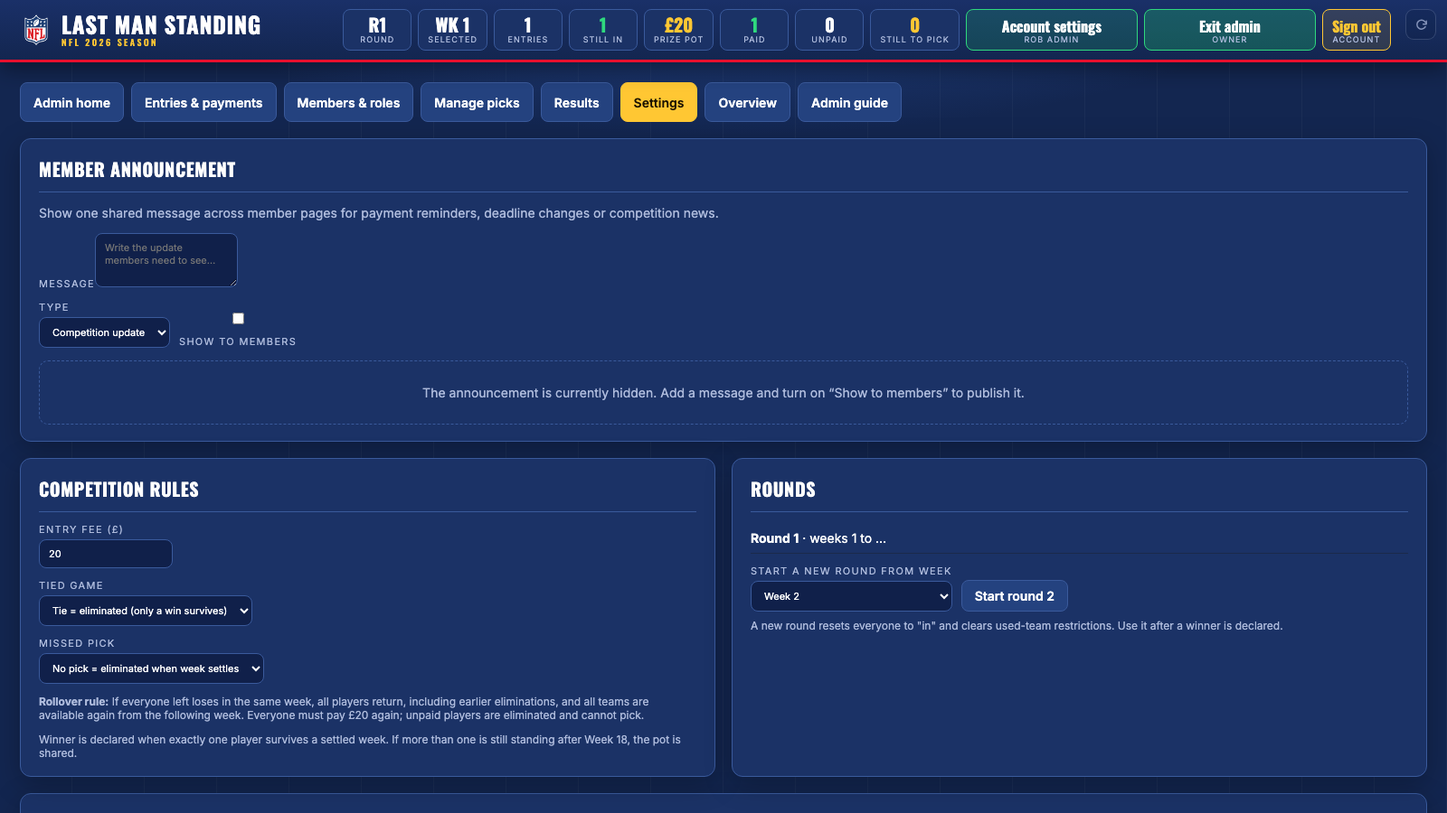
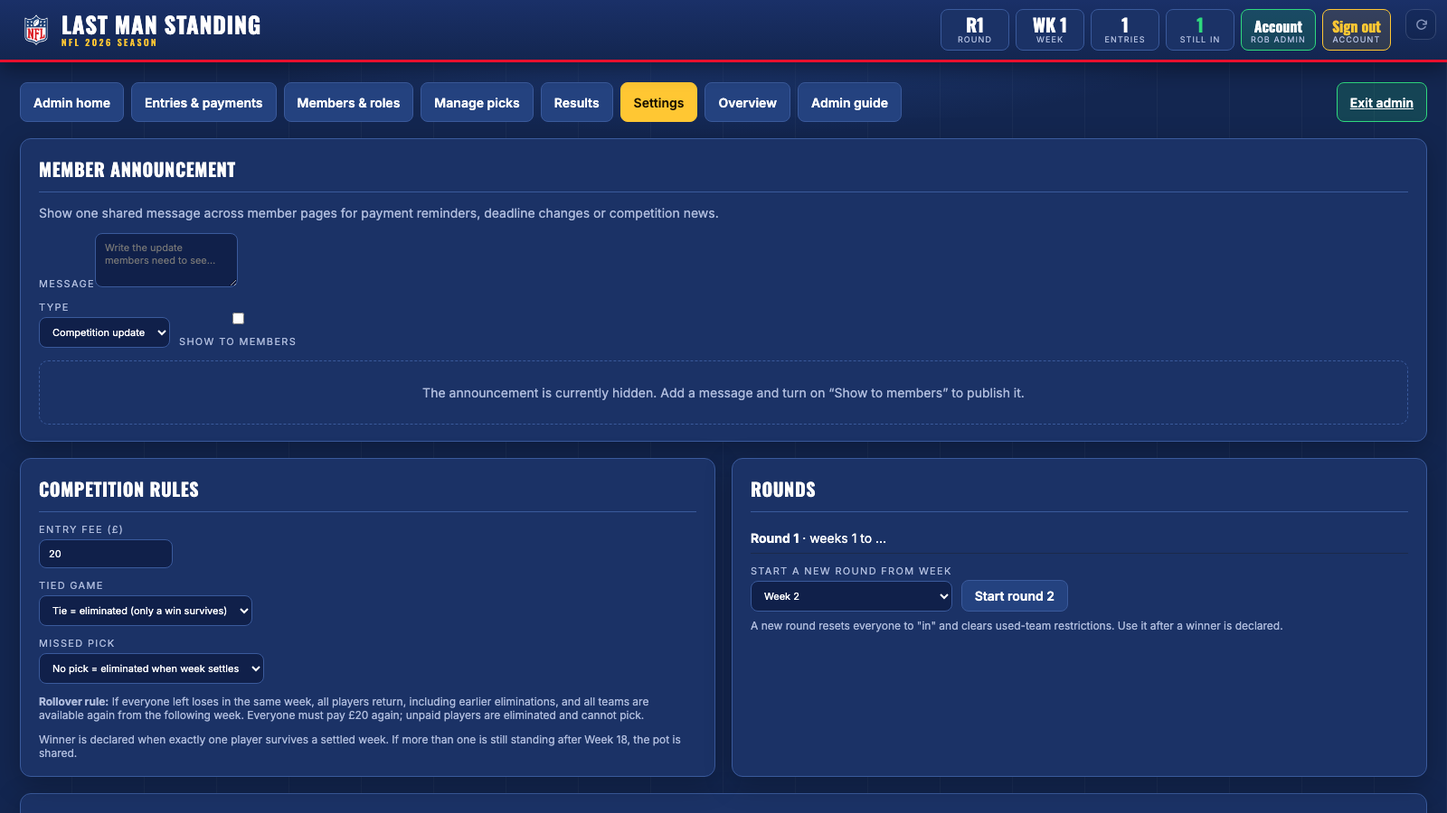
Simplify competition header

Changed region(s): [[0.5625, 0.0, 0.9062, 0.0622], [0.25, 0.0, 0.5312, 0.0622], [0.9062, 0.0933, 1.0, 0.1556]]

diff --git a/index.html b/index.html
@@ -259,8 +259,7 @@ body.player .season{display:flex;flex-wrap:wrap;gap:10px}
 @media(max-width:900px){
   body .hdr-top{padding:12px 16px;display:block}
   body .brand h1,body.player .brand h1{font-size:24px}
-  body .hdr-stats{display:grid;grid-template-columns:repeat(7,minmax(0,1fr));margin:12px 0 0;gap:6px}
-  body.player .hdr-stats{grid-template-columns:repeat(6,minmax(0,1fr))}
+  body .hdr-stats,body.player .hdr-stats{display:grid;grid-template-columns:repeat(6,minmax(0,1fr));margin:12px 0 0;gap:6px}
   body .stat,body.player .stat{min-width:0;padding:6px 4px}
   nav{padding:0 12px}
   nav button{padding:12px 14px;font-size:13px;min-height:44px}
@@ -276,7 +275,7 @@ body.player .season{display:flex;flex-wrap:wrap;gap:10px}
   body .brand h1,body.player .brand h1{font-size:22px}
   .brand h1 small{font-size:9px;letter-spacing:.2em}
   .brand .nfl-logo{width:30px;height:36px}
-  body .hdr-stats,body.player .hdr-stats{grid-template-columns:repeat(4,minmax(0,1fr));margin-top:10px}
+  body .hdr-stats,body.player .hdr-stats{grid-template-columns:repeat(3,minmax(0,1fr));margin-top:10px}
   .stat .v{font-size:18px}
   .stat .l{font-size:8px;letter-spacing:.08em}
   nav{position:fixed;z-index:100;left:0;right:0;bottom:0;display:grid;grid-template-columns:repeat(4,minmax(0,1fr));gap:4px;padding:6px 8px calc(6px + env(safe-area-inset-bottom));background:rgba(8,18,43,.97);border-top:1px solid var(--line);border-bottom:0;box-shadow:0 -8px 28px rgba(0,0,0,.45);overflow:visible}
@@ -347,7 +346,7 @@ html{-webkit-text-size-adjust:100%;text-size-adjust:100%}
 .account-identity{display:grid;grid-template-columns:minmax(0,1fr) auto;align-items:center;gap:18px}.account-identity h1{font-family:var(--font-head);font-size:clamp(30px,5vw,48px);line-height:1;margin:7px 0}.account-actions{display:flex;flex-wrap:wrap;justify-content:flex-end;gap:8px}.account-entry-switch{grid-column:1/-1;border-top:1px solid var(--line);padding-top:14px}.account-entry-tabs{display:flex;flex-wrap:wrap;gap:8px;margin-top:8px}.account-summary{margin-bottom:18px}.account-status{font-family:var(--font-head);font-size:clamp(28px,5vw,42px);margin:12px 0 6px}.account-status.active{color:var(--green)}.account-status.inactive{color:var(--gold)}.account-current-pick{display:flex;align-items:center;gap:14px;margin-top:12px}.account-current-pick strong{display:block;font-size:18px}.account-current-pick span{display:block;color:var(--grey);font-size:12px;margin-top:5px}.account-history{display:grid;gap:7px}.account-history-row{display:grid;grid-template-columns:70px minmax(0,1fr) auto;align-items:center;gap:12px;padding:10px 12px;background:var(--deep);border:1px solid var(--line);border-radius:9px}.account-week{color:var(--grey);font-size:12px;font-weight:700}.account-team-grid{display:grid;grid-template-columns:repeat(auto-fill,minmax(145px,1fr));gap:7px}.account-team-card{display:flex;align-items:center;gap:9px;min-width:0;padding:9px 10px;background:var(--deep);border:1px solid var(--line);border-radius:9px}.account-team-card .logo{flex:none}.account-team-card div{min-width:0}.account-team-card b,.account-team-card span{display:block;white-space:nowrap;overflow:hidden;text-overflow:ellipsis}.account-team-card span{color:var(--grey);font-size:10px;margin-top:3px}@media(max-width:650px){.account-identity{grid-template-columns:1fr}.account-actions{justify-content:flex-start}.account-history-row{grid-template-columns:58px minmax(0,1fr)}.account-history-row>.pill{grid-column:2}.account-team-grid{grid-template-columns:repeat(2,minmax(0,1fr))}.account-team-card{padding:8px}.account-team-card .logo.lg{width:32px;height:32px}}
 .member-name-editor{display:grid;grid-template-columns:minmax(110px,1fr) minmax(140px,1fr) auto;gap:6px;min-width:390px}.name-required{color:#ff9aa8;font-weight:700;margin-top:5px}@media(max-width:650px){.member-name-editor{min-width:320px}}
 .brand{width:max-content;max-width:calc(100% - 42px);text-decoration:none;color:inherit;border-radius:7px}.brand:hover h1{color:#fff}.brand:focus-visible{outline:2px solid var(--gold);outline-offset:5px}.hdr-top{position:relative;padding-right:62px}.refresh-app{position:absolute;z-index:21;right:12px;top:10px;display:flex;align-items:center;justify-content:center;width:34px;height:34px;padding:7px;border:1px solid rgba(166,181,214,.32);border-radius:9px;background:rgba(8,24,58,.28);color:var(--grey);opacity:.72;cursor:pointer}.refresh-app:hover,.refresh-app:focus-visible{opacity:1;color:#fff;border-color:var(--line);background:rgba(36,66,127,.75)}.refresh-app svg{width:17px;height:17px;fill:none;stroke:currentColor;stroke-width:2.1;stroke-linecap:round;stroke-linejoin:round}.refresh-app.refreshing svg{animation:refresh-spin .8s linear infinite}@keyframes refresh-spin{to{transform:rotate(360deg)}}@media(max-width:900px){body .hdr-top{padding-right:54px}}@media(max-width:600px){.refresh-app{right:9px;top:9px;width:32px;height:32px;padding:7px;opacity:.62}}
-.stat.account-access{min-width:190px;background:rgba(31,191,106,.2);border-color:var(--green);color:inherit;text-decoration:none}.stat.account-access .v{color:#fff;font-size:16px;padding-top:4px}.stat.admin-access{background:rgba(31,191,106,.3)}.stat.signout-access{color:inherit;font:inherit}.participation-summary{display:grid;grid-template-columns:repeat(6,minmax(92px,1fr));gap:9px;margin:16px 0}.participation-summary>div{padding:12px;border:1px solid var(--line);border-radius:10px;background:var(--deep);text-align:center}.participation-summary b{display:block;font:700 30px/1 var(--font-head);color:#fff}.participation-summary span{display:block;margin-top:5px;color:var(--grey);font-size:10px;text-transform:uppercase;letter-spacing:.12em}.participation-summary .paid b{color:var(--green)}.participation-summary .unpaid b,.participation-summary .topick b{color:var(--gold)}@media(max-width:900px){.participation-summary{grid-template-columns:repeat(3,minmax(0,1fr))}.stat.account-access{min-width:0;grid-column:span 2}}@media(max-width:520px){.participation-summary{grid-template-columns:repeat(2,minmax(0,1fr))}.stat.account-access .v{font-size:13px}}
+.stat.account-access{min-width:76px;background:rgba(31,191,106,.2);border-color:var(--green);color:inherit;text-decoration:none}.stat.account-access .v{color:#fff;font-size:16px;padding-top:4px}.stat.signout-access{color:inherit;font:inherit}.participation-summary{display:grid;grid-template-columns:repeat(6,minmax(92px,1fr));gap:9px;margin:16px 0}.participation-summary>div{padding:12px;border:1px solid var(--line);border-radius:10px;background:var(--deep);text-align:center}.participation-summary b{display:block;font:700 30px/1 var(--font-head);color:#fff}.participation-summary span{display:block;margin-top:5px;color:var(--grey);font-size:10px;text-transform:uppercase;letter-spacing:.12em}.participation-summary .paid b{color:var(--green)}.participation-summary .unpaid b,.participation-summary .topick b{color:var(--gold)}.admin-nav .admin-exit{margin-left:auto;background:rgba(31,191,106,.2);border-color:var(--green)}@media(max-width:900px){.participation-summary{grid-template-columns:repeat(3,minmax(0,1fr))}.stat.account-access{min-width:0}}@media(max-width:520px){.participation-summary{grid-template-columns:repeat(2,minmax(0,1fr))}.stat.account-access .v{font-size:13px}.admin-nav .admin-exit{margin-left:0}}
 </style>
 </head>
 <body>
@@ -763,17 +762,12 @@ function render(){
   if(S.ui.view==='entries') wireDrop();
 }
 function renderHeader(r,comp){
-  const pot=prizePot(r,comp),entries=roundEntries(r);
-  const paid=entries.filter(e=>entryPaid(e,r,comp)).length,missing=missingEntries(S.ui.week||defaultWeek(),r,comp).length;
+  const entries=roundEntries(r);
   document.getElementById('hdrStats').innerHTML=`
     <div class="stat"><div class="v">R${r.n}</div><div class="l">Round</div></div>
-    <div class="stat"><div class="v">WK ${S.ui.week||defaultWeek()}</div><div class="l">Selected</div></div>
+    <div class="stat"><div class="v">WK ${S.ui.week||defaultWeek()}</div><div class="l">Week</div></div>
     <div class="stat"><div class="v">${entries.length}</div><div class="l">Entries</div></div>
     <div class="stat alive"><div class="v">${comp.alive.size}</div><div class="l">Still In</div></div>
-    <div class="stat pot"><div class="v">${gbp(pot)}</div><div class="l">Prize Pot</div></div>
-    <div class="stat alive"><div class="v">${paid}</div><div class="l">Paid</div></div>
-    <div class="stat"><div class="v">${entries.length-paid}</div><div class="l">Unpaid</div></div>
-    <div class="stat pot"><div class="v">${missing}</div><div class="l">Still to pick</div></div>
     ${REMOTE?remoteHeader():SHARED?(ADMIN?`<div class="stat pub ${isDirty()?'dirty':''}" onclick="${HOSTED?'publishLive()':'exportLivePage()'}" title="${HOSTED?'Publish the current state so everyone with the link sees it':'Download an updated index.html to upload to your web host'}"><div class="v">${HOSTED?(isDirty()?'⬆ Publish':'✓ Live'):'⬇ Download'}</div><div class="l">${isDirty()?'unpublished changes':'up to date'}</div></div><div class="stat pub" style="border-color:var(--line);background:transparent" onclick="toggleAdmin()"><div class="v" style="color:#fff">Admin</div><div class="l">exit</div></div>`:`<div class="stat pub" style="border-color:var(--line);background:transparent;opacity:.6" onclick="toggleAdmin()" title="Organiser only"><div class="v" style="color:#fff">🔒</div><div class="l">organiser</div></div>`):''}`;
 }
 
@@ -795,6 +789,7 @@ function renderFixturesCard(w){
 function renderHome(r,comp){
   const pot=prizePot(r,comp),entries=roundEntries(r);
   const w=defaultWeek();
+  const paid=entries.filter(e=>entryPaid(e,r,comp)).length,missing=missingEntries(w,r,comp).length;
   const first=GAMES.slice().sort((a,b)=>a.date.localeCompare(b.date))[0];
   const wkCur=gamesByWeek(w);
   const last=GAMES.slice().sort((a,b)=>b.date.localeCompare(a.date))[0];
@@ -805,15 +800,16 @@ function renderHome(r,comp){
     <h1 class="big">Last Man <span>Standing</span></h1>
     <p>Pick One team per week. Win to stay in, losers go out. Last man standing take the pot.</p>
     <div class="herostats">
-      <div class="herostat gold"><div class="v">${gbp(S.settings.fee)}</div><div class="l">Per entry</div></div>
       <div class="herostat gold"><div class="v">${gbp(pot)}</div><div class="l">Current pot</div></div>
-      <div class="herostat green"><div class="v">${comp.alive.size}</div><div class="l">Still standing</div></div>
-      <div class="herostat"><div class="v">Wk ${w}</div><div class="l">${weekSettled(w)?'Settled':weekHasResults(w)?'In progress':'Up next'}</div></div>
+      <div class="herostat green"><div class="v">${paid}</div><div class="l">Paid</div></div>
+      <div class="herostat gold"><div class="v">${entries.length-paid}</div><div class="l">Unpaid</div></div>
+      <div class="herostat"><div class="v">${missing}</div><div class="l">Still to pick</div></div>
     </div>
     <div class="hero-actions">
       <button class="btn gold" onclick="setView('standings')">View standings</button>
       <button class="btn" onclick="setView('picks')">Picks and history</button>
       <button class="btn primary" onclick="${accountUser?`setWeek(${w});setView('picks')`:`location.href='/signup'`}">${accountUser?`Enter Week ${w} picks`:'Register or sign in'}</button>
+      ${accountUser&&['owner','admin'].includes(accountUser.role)?'<a class="btn" style="border-color:var(--green);background:rgba(31,191,106,.2)" href="/admin">Admin area</a>':''}
       <a class="btn" href="/help">How to guide</a>
     </div>
   </div>
@@ -1502,7 +1498,7 @@ let accountUser=null,accountEntries=[],accountParticipation='not_entered',accoun
 const accountCall=(action,body)=>apiRequest('/api/account?action='+action,body);
 function accountBar(){if(location.protocol==='file:')return '';if(accountPage==='/admin')return adminNavigation();return ['/login','/signup','/reset-password'].includes(accountPage)?'<div class="row account-bar"><a class="btn" href="/">Dashboard</a></div>':'';}
 const adminSections=[['adminhome','Admin home'],['entries','Entries & payments'],['members','Members & roles'],['picks','Manage picks'],['results','Results'],['settings','Settings'],['dash','Overview'],['adminhelp','Admin guide']];
-function adminNavigation(){return accountPage==='/admin'&&ADMIN?`<div class="admin-nav" role="navigation" aria-label="Admin tools">${adminSections.map(([view,label])=>`<button class="btn ${S.ui.view===view?'gold':''}" aria-current="${S.ui.view===view?'page':'false'}" onclick="setView('${view}')">${view==='members'&&accountUser?.role!=='owner'?'Members':label}</button>`).join('')}</div>`:'';}
+function adminNavigation(){return accountPage==='/admin'&&ADMIN?`<div class="admin-nav" role="navigation" aria-label="Admin tools">${adminSections.map(([view,label])=>`<button class="btn ${S.ui.view===view?'gold':''}" aria-current="${S.ui.view===view?'page':'false'}" onclick="setView('${view}')">${view==='members'&&accountUser?.role!=='owner'?'Members':label}</button>`).join('')}<a class="btn admin-exit" href="/dashboard">Exit admin</a></div>`:'';}
 function renderAdminHome(r,comp){
  const entries=roundEntries(r),paid=entries.filter(e=>entryPaid(e,r,comp)).length,missing=missingEntries(defaultWeek(),r,comp).length,summary=accountSummary||{members:0,participating:0,entries:entries.length,paid,unpaid:entries.length-paid};
  const tools=[['entries','Entries & payments',accountUser?.role==='owner'?'Mark payments, add people manually and use the owner-only spreadsheet importer.':'Mark payments and add individual entries. New members should register and set their own password.'],['members',accountUser?.role==='owner'?'Members & roles':'Members',accountUser?.role==='owner'?'Correct names, assign admins, manage access, link entries and reset passwords.':'Correct member names and reset member passwords.'],['picks','Manage picks','Add, replace or clear picks for any entry, including your own and deadline overrides.'],['results','Results','Fetch scores, enter results and settle the week.'],['settings','Competition settings','Manage rounds, rules, entry fees and backups.'],['dash','Competition overview','Check the prize pot, standings, missing picks and fixtures.'],['adminhelp','Admin how-to guide','Search the complete guide to payments, accounts, picks, results, rollovers and settings.']];
@@ -1512,9 +1508,9 @@ function participationSummary(summary,missing){return `<div class="participation
 
 function deadlineBanner(w){const d=L.weekDeadline(w);return `<div class="card deadline"><b>Week ${w} pick deadline: ${d?new Date(d).toLocaleString('en-GB',{weekday:'long',day:'numeric',month:'short',hour:'2-digit',minute:'2-digit',timeZone:'Europe/London'}):'Awaiting fixtures'} (UK time)</b><div class="small muted">All picks and changes close one hour before the first kick-off.${d&&d<=serverNow()?' This week is now locked.':''}</div></div>`;}
 function remoteHeader(){
- if(!accountUser)return '<a class="stat pub" style="color:inherit;font:inherit;text-decoration:none" href="/signup"><div class="v" style="font-size:18px">Register</div><div class="l">or sign in</div></a>';
- const staff=['owner','admin'].includes(accountUser.role),inAdmin=accountPage==='/admin',inAccount=accountPage==='/account';
- return `<a class="stat pub account-access" href="${inAccount?'/dashboard':'/account'}"><div class="v">${inAccount?'Exit account settings':'Account settings'}</div><div class="l">${esc(accountUser.name)}</div></a>${staff?`<a class="stat pub account-access admin-access" href="${inAdmin?'/dashboard':'/admin'}"><div class="v">${inAdmin?'Exit admin':'Admin area'}</div><div class="l">${accountUser.role}</div></a>`:''}<button type="button" class="stat pub signout-access" onclick="accountLogout()"><div class="v">Sign out</div><div class="l">account</div></button>`;
+ if(!accountUser)return '<a class="stat pub" style="color:inherit;font:inherit;text-decoration:none" href="/login"><div class="v" style="font-size:18px">Sign in</div><div class="l">account</div></a>';
+ const inAccount=accountPage==='/account';
+ return `<a class="stat pub account-access" href="${inAccount?'/dashboard':'/account'}"><div class="v">${inAccount?'Exit account settings':'Account'}</div><div class="l">${esc(accountUser.name)}</div></a><button type="button" class="stat pub signout-access" onclick="accountLogout()"><div class="v">Sign out</div><div class="l">account</div></button>`;
 }
 async function remoteAdmin(){location.href=accountUser&&['admin','owner'].includes(accountUser.role)?'/admin':'/login';}
 async function accountLogout(){try{await flushRemote();await remoteQueue;if(remoteDirty)return;await accountCall('logout',{});location.href='/';}catch(e){toast(esc(e.message));}}
@@ -1552,7 +1548,7 @@ function noEntryBanner(){
  const staff=['owner','admin'].includes(accountUser.role);
  const sittingOut=accountParticipation==='not_participating';return `<div class="card join-round"><div class="kick">Round ${currentRound().n}</div><h2>${sittingOut?'You are not participating':'Join this round'}</h2><p>${sittingOut?'You are currently marked as not participating. Add an entry whenever you decide to join.':'Your member account is ready. You are not counted as an entry until you choose to join this round.'}</p><div class="row"><button class="btn gold" onclick="addAccountEntry()">Add an entry</button>${!sittingOut?`<button class="btn" onclick="setAccountParticipation('not_participating')">I’m not participating</button>`:''}${sittingOut?`<button class="btn" onclick="setAccountParticipation('not_entered')">Clear this status</button>`:''}${staff?'<a class="btn" href="/admin">Open Admin area</a>':''}</div></div>`;
 }
-function memberDashboardControls(e){const paid=e&&entryPaid(e),name=e?entryName(e.id):'';return `<div class="card entry-controls"><h2>Your round entries <span class="tag">${accountEntries.length} ${accountEntries.length===1?'entry':'entries'}</span></h2>${memberEntrySwitcher()}<div class="row"><button class="btn gold" onclick="addAccountEntry()">Add another entry</button>${e&&!paid?`<button class="btn danger" onclick="removeAccountEntry('${e.id}','${esc(name)}')">Remove this unpaid entry</button>`:''}<button class="btn" onclick="setAccountParticipation('not_participating')">Sit out this round</button></div><p class="small muted">Every entry must be approved and marked paid by an administrator before it can make a pick. Paid entries must be marked unpaid by an administrator before removal.</p></div>`;}
+function memberDashboardControls(e){const paid=e&&entryPaid(e),name=e?entryName(e.id):'',staff=['owner','admin'].includes(accountUser?.role);return `<div class="card entry-controls"><h2>Your round entries <span class="tag">${accountEntries.length} ${accountEntries.length===1?'entry':'entries'}</span></h2>${memberEntrySwitcher()}<div class="row"><button class="btn gold" onclick="addAccountEntry()">Add another entry</button>${e&&!paid?`<button class="btn danger" onclick="removeAccountEntry('${e.id}','${esc(name)}')">Remove this unpaid entry</button>`:''}<button class="btn" onclick="setAccountParticipation('not_participating')">Sit out this round</button>${staff?'<a class="btn" style="border-color:var(--green);background:rgba(31,191,106,.2)" href="/admin">Open Admin area</a>':''}</div><p class="small muted">Every entry must be approved and marked paid by an administrator before it can make a pick. Paid entries must be marked unpaid by an administrator before removal.</p></div>`;}
 function renderAccountPage(){
  document.body.classList.add('ro','player');document.getElementById('nav').classList.remove('hidden');const r=currentRound(),comp=computeRound(r),w=defaultWeek();renderHeader(r,comp);document.querySelectorAll('nav button').forEach(b=>b.classList.remove('active'));
  document.getElementById('main').innerHTML=memberTools()+`<div class="card"><h2>Round participation</h2><p>${accountEntries.length?`You have ${accountEntries.length} ${accountEntries.length===1?'entry':'entries'} in Round ${r.n}. Manage entries and picks from your Dashboard.`:accountParticipation==='not_participating'?`You are marked as not participating in Round ${r.n}. You can join from your Dashboard.`:`You have not joined Round ${r.n}. Add an entry from your Dashboard if you want to play.`}</p><a class="btn gold" href="/dashboard">Go to Dashboard</a></div>`;const foot=document.getElementById('foot');if(foot)foot.textContent='Your NFL LMS account settings.';

diff --git a/lib/account-client.js b/lib/account-client.js
@@ -2,7 +2,7 @@ let accountUser=null,accountEntries=[],accountParticipation='not_entered',accoun
 const accountCall=(action,body)=>apiRequest('/api/account?action='+action,body);
 function accountBar(){if(location.protocol==='file:')return '';if(accountPage==='/admin')return adminNavigation();return ['/login','/signup','/reset-password'].includes(accountPage)?'<div class="row account-bar"><a class="btn" href="/">Dashboard</a></div>':'';}
 const adminSections=[['adminhome','Admin home'],['entries','Entries & payments'],['members','Members & roles'],['picks','Manage picks'],['results','Results'],['settings','Settings'],['dash','Overview'],['adminhelp','Admin guide']];
-function adminNavigation(){return accountPage==='/admin'&&ADMIN?`<div class="admin-nav" role="navigation" aria-label="Admin tools">${adminSections.map(([view,label])=>`<button class="btn ${S.ui.view===view?'gold':''}" aria-current="${S.ui.view===view?'page':'false'}" onclick="setView('${view}')">${view==='members'&&accountUser?.role!=='owner'?'Members':label}</button>`).join('')}</div>`:'';}
+function adminNavigation(){return accountPage==='/admin'&&ADMIN?`<div class="admin-nav" role="navigation" aria-label="Admin tools">${adminSections.map(([view,label])=>`<button class="btn ${S.ui.view===view?'gold':''}" aria-current="${S.ui.view===view?'page':'false'}" onclick="setView('${view}')">${view==='members'&&accountUser?.role!=='owner'?'Members':label}</button>`).join('')}<a class="btn admin-exit" href="/dashboard">Exit admin</a></div>`:'';}
 function renderAdminHome(r,comp){
  const entries=roundEntries(r),paid=entries.filter(e=>entryPaid(e,r,comp)).length,missing=missingEntries(defaultWeek(),r,comp).length,summary=accountSummary||{members:0,participating:0,entries:entries.length,paid,unpaid:entries.length-paid};
  const tools=[['entries','Entries & payments',accountUser?.role==='owner'?'Mark payments, add people manually and use the owner-only spreadsheet importer.':'Mark payments and add individual entries. New members should register and set their own password.'],['members',accountUser?.role==='owner'?'Members & roles':'Members',accountUser?.role==='owner'?'Correct names, assign admins, manage access, link entries and reset passwords.':'Correct member names and reset member passwords.'],['picks','Manage picks','Add, replace or clear picks for any entry, including your own and deadline overrides.'],['results','Results','Fetch scores, enter results and settle the week.'],['settings','Competition settings','Manage rounds, rules, entry fees and backups.'],['dash','Competition overview','Check the prize pot, standings, missing picks and fixtures.'],['adminhelp','Admin how-to guide','Search the complete guide to payments, accounts, picks, results, rollovers and settings.']];
@@ -12,9 +12,9 @@ function participationSummary(summary,missing){return `<div class="participation
 
 function deadlineBanner(w){const d=L.weekDeadline(w);return `<div class="card deadline"><b>Week ${w} pick deadline: ${d?new Date(d).toLocaleString('en-GB',{weekday:'long',day:'numeric',month:'short',hour:'2-digit',minute:'2-digit',timeZone:'Europe/London'}):'Awaiting fixtures'} (UK time)</b><div class="small muted">All picks and changes close one hour before the first kick-off.${d&&d<=serverNow()?' This week is now locked.':''}</div></div>`;}
 function remoteHeader(){
- if(!accountUser)return '<a class="stat pub" style="color:inherit;font:inherit;text-decoration:none" href="/signup"><div class="v" style="font-size:18px">Register</div><div class="l">or sign in</div></a>';
- const staff=['owner','admin'].includes(accountUser.role),inAdmin=accountPage==='/admin',inAccount=accountPage==='/account';
- return `<a class="stat pub account-access" href="${inAccount?'/dashboard':'/account'}"><div class="v">${inAccount?'Exit account settings':'Account settings'}</div><div class="l">${esc(accountUser.name)}</div></a>${staff?`<a class="stat pub account-access admin-access" href="${inAdmin?'/dashboard':'/admin'}"><div class="v">${inAdmin?'Exit admin':'Admin area'}</div><div class="l">${accountUser.role}</div></a>`:''}<button type="button" class="stat pub signout-access" onclick="accountLogout()"><div class="v">Sign out</div><div class="l">account</div></button>`;
+ if(!accountUser)return '<a class="stat pub" style="color:inherit;font:inherit;text-decoration:none" href="/login"><div class="v" style="font-size:18px">Sign in</div><div class="l">account</div></a>';
+ const inAccount=accountPage==='/account';
+ return `<a class="stat pub account-access" href="${inAccount?'/dashboard':'/account'}"><div class="v">${inAccount?'Exit account settings':'Account'}</div><div class="l">${esc(accountUser.name)}</div></a><button type="button" class="stat pub signout-access" onclick="accountLogout()"><div class="v">Sign out</div><div class="l">account</div></button>`;
 }
 async function remoteAdmin(){location.href=accountUser&&['admin','owner'].includes(accountUser.role)?'/admin':'/login';}
 async function accountLogout(){try{await flushRemote();await remoteQueue;if(remoteDirty)return;await accountCall('logout',{});location.href='/';}catch(e){toast(esc(e.message));}}
@@ -52,7 +52,7 @@ function noEntryBanner(){
  const staff=['owner','admin'].includes(accountUser.role);
  const sittingOut=accountParticipation==='not_participating';return `<div class="card join-round"><div class="kick">Round ${currentRound().n}</div><h2>${sittingOut?'You are not participating':'Join this round'}</h2><p>${sittingOut?'You are currently marked as not participating. Add an entry whenever you decide to join.':'Your member account is ready. You are not counted as an entry until you choose to join this round.'}</p><div class="row"><button class="btn gold" onclick="addAccountEntry()">Add an entry</button>${!sittingOut?`<button class="btn" onclick="setAccountParticipation('not_participating')">I’m not participating</button>`:''}${sittingOut?`<button class="btn" onclick="setAccountParticipation('not_entered')">Clear this status</button>`:''}${staff?'<a class="btn" href="/admin">Open Admin area</a>':''}</div></div>`;
 }
-function memberDashboardControls(e){const paid=e&&entryPaid(e),name=e?entryName(e.id):'';return `<div class="card entry-controls"><h2>Your round entries <span class="tag">${accountEntries.length} ${accountEntries.length===1?'entry':'entries'}</span></h2>${memberEntrySwitcher()}<div class="row"><button class="btn gold" onclick="addAccountEntry()">Add another entry</button>${e&&!paid?`<button class="btn danger" onclick="removeAccountEntry('${e.id}','${esc(name)}')">Remove this unpaid entry</button>`:''}<button class="btn" onclick="setAccountParticipation('not_participating')">Sit out this round</button></div><p class="small muted">Every entry must be approved and marked paid by an administrator before it can make a pick. Paid entries must be marked unpaid by an administrator before removal.</p></div>`;}
+function memberDashboardControls(e){const paid=e&&entryPaid(e),name=e?entryName(e.id):'',staff=['owner','admin'].includes(accountUser?.role);return `<div class="card entry-controls"><h2>Your round entries <span class="tag">${accountEntries.length} ${accountEntries.length===1?'entry':'entries'}</span></h2>${memberEntrySwitcher()}<div class="row"><button class="btn gold" onclick="addAccountEntry()">Add another entry</button>${e&&!paid?`<button class="btn danger" onclick="removeAccountEntry('${e.id}','${esc(name)}')">Remove this unpaid entry</button>`:''}<button class="btn" onclick="setAccountParticipation('not_participating')">Sit out this round</button>${staff?'<a class="btn" style="border-color:var(--green);background:rgba(31,191,106,.2)" href="/admin">Open Admin area</a>':''}</div><p class="small muted">Every entry must be approved and marked paid by an administrator before it can make a pick. Paid entries must be marked unpaid by an administrator before removal.</p></div>`;}
 function renderAccountPage(){
  document.body.classList.add('ro','player');document.getElementById('nav').classList.remove('hidden');const r=currentRound(),comp=computeRound(r),w=defaultWeek();renderHeader(r,comp);document.querySelectorAll('nav button').forEach(b=>b.classList.remove('active'));
  document.getElementById('main').innerHTML=memberTools()+`<div class="card"><h2>Round participation</h2><p>${accountEntries.length?`You have ${accountEntries.length} ${accountEntries.length===1?'entry':'entries'} in Round ${r.n}. Manage entries and picks from your Dashboard.`:accountParticipation==='not_participating'?`You are marked as not participating in Round ${r.n}. You can join from your Dashboard.`:`You have not joined Round ${r.n}. Add an entry from your Dashboard if you want to play.`}</p><a class="btn gold" href="/dashboard">Go to Dashboard</a></div>`;const foot=document.getElementById('foot');if(foot)foot.textContent='Your NFL LMS account settings.';

diff --git a/tests/logic.test.js b/tests/logic.test.js
@@ -53,6 +53,8 @@ test('mobile navigation, refresh, help, privacy and announcements stay wired',()
   assert.match(current,/function renderPrivacyPage\(/);assert.match(current,/function announcementBanner\(/);assert.match(current,/Member announcement/);
   assert.match(current,/function renderDashboard\(r,comp\)\{return renderHome\(r,comp\);\}/);
   assert.match(current,/function renderAccountPage\(/);assert.doesNotMatch(current,/dash:\(\)=>memberTools\(\)\+deadlineBanner/);
+  const header=current.match(/function renderHeader\(r,comp\)\{[\s\S]*?\n\}/)[0];assert.match(header,/>Round<\/div>/);assert.match(header,/>Week<\/div>/);assert.match(header,/>Entries<\/div>/);assert.match(header,/>Still In<\/div>/);assert.doesNotMatch(header,/>Prize Pot<\/div>|>Paid<\/div>|>Unpaid<\/div>|>Still to pick<\/div>/);
+  assert.match(current,/href="\/login"><div class="v" style="font-size:18px">Sign in/);assert.match(current,/Current pot<\/div>/);assert.match(current,/Still to pick<\/div>/);assert.match(current,/class="btn admin-exit" href="\/dashboard">Exit admin/);
   assert.match(current,/accountUser\?\.name/);assert.match(current,/Add another entry/);assert.match(current,/Choose an entry/);assert.match(current,/must be approved and marked paid/);
   assert.match(current,/Rob O’Shea 1/);assert.match(current,/function entryName\(id\)/);assert.match(current,/accountPage==='\/account'\)return renderAccountPage/);
   assert.match(current,/New player\?/);assert.match(current,/Register before you sign in/);assert.match(current,/Register and create account/);assert.match(current,/href="\/signup"/);
